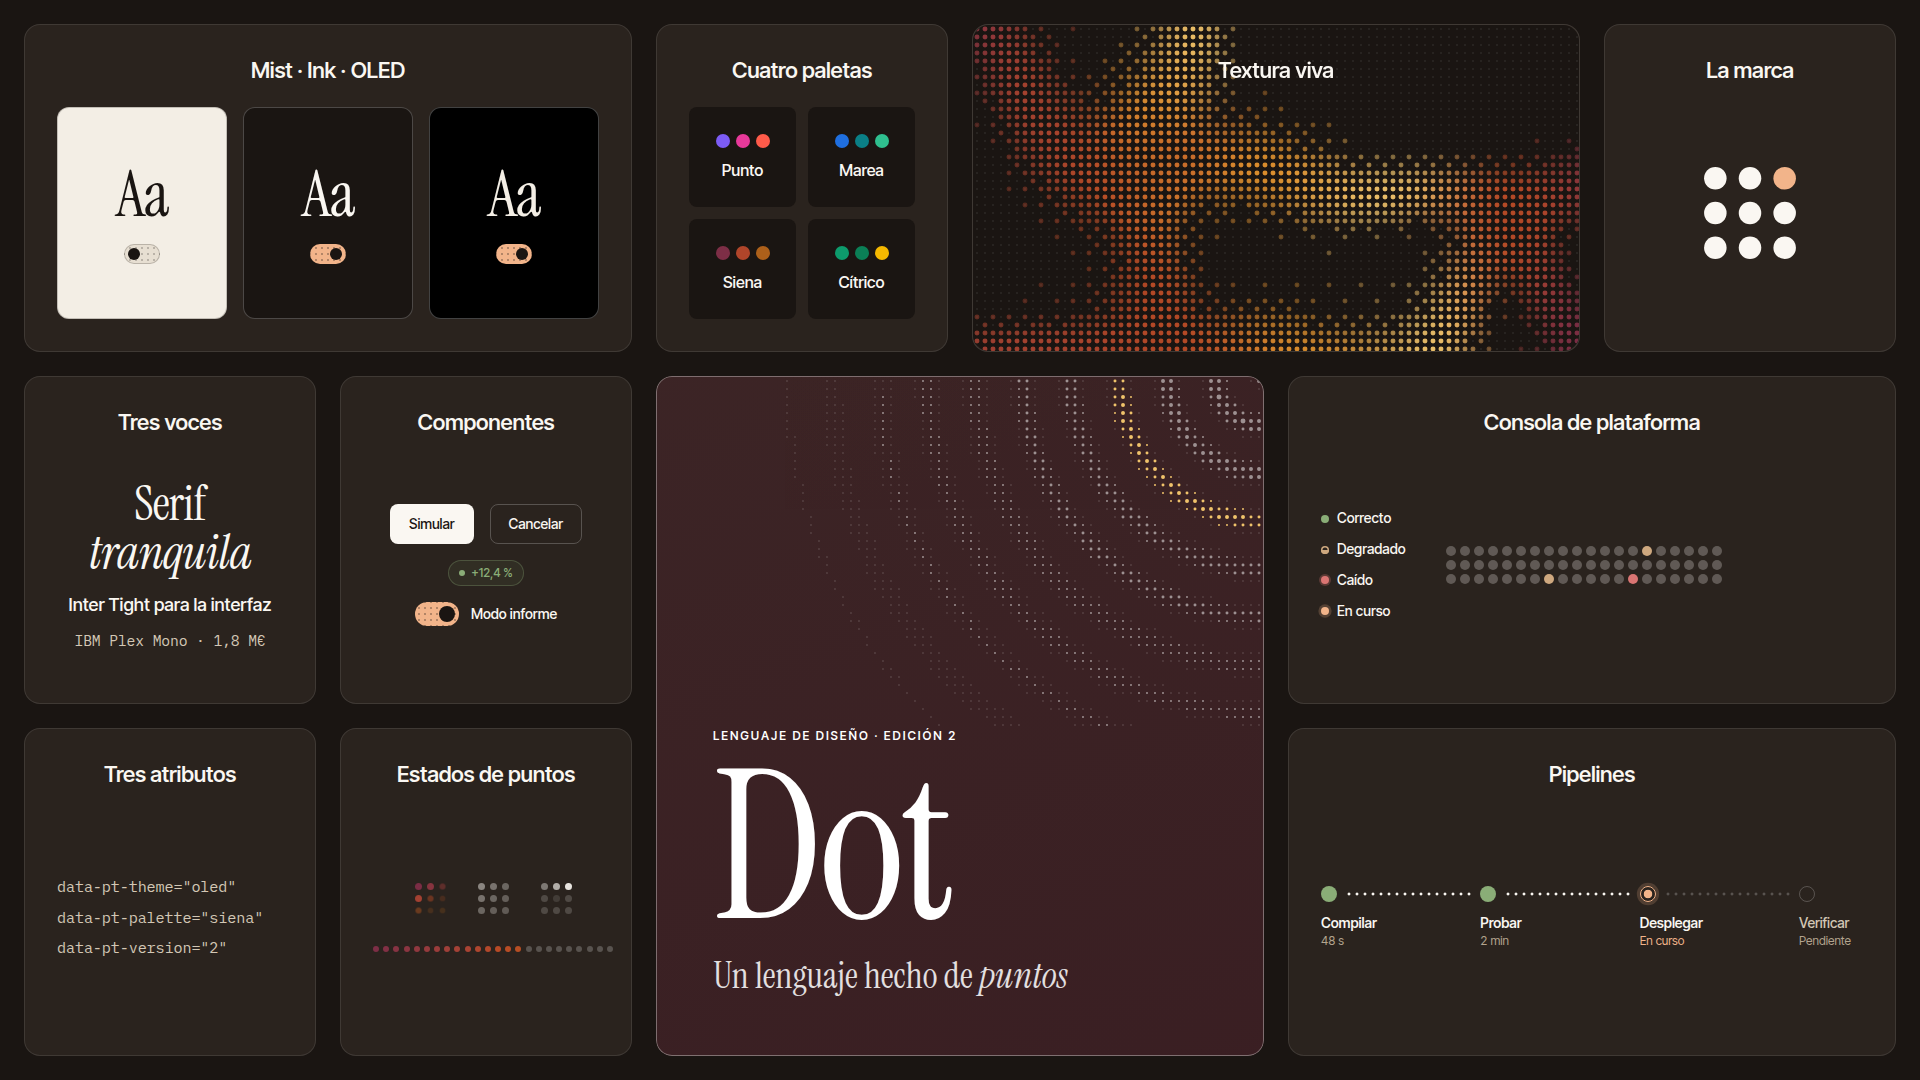
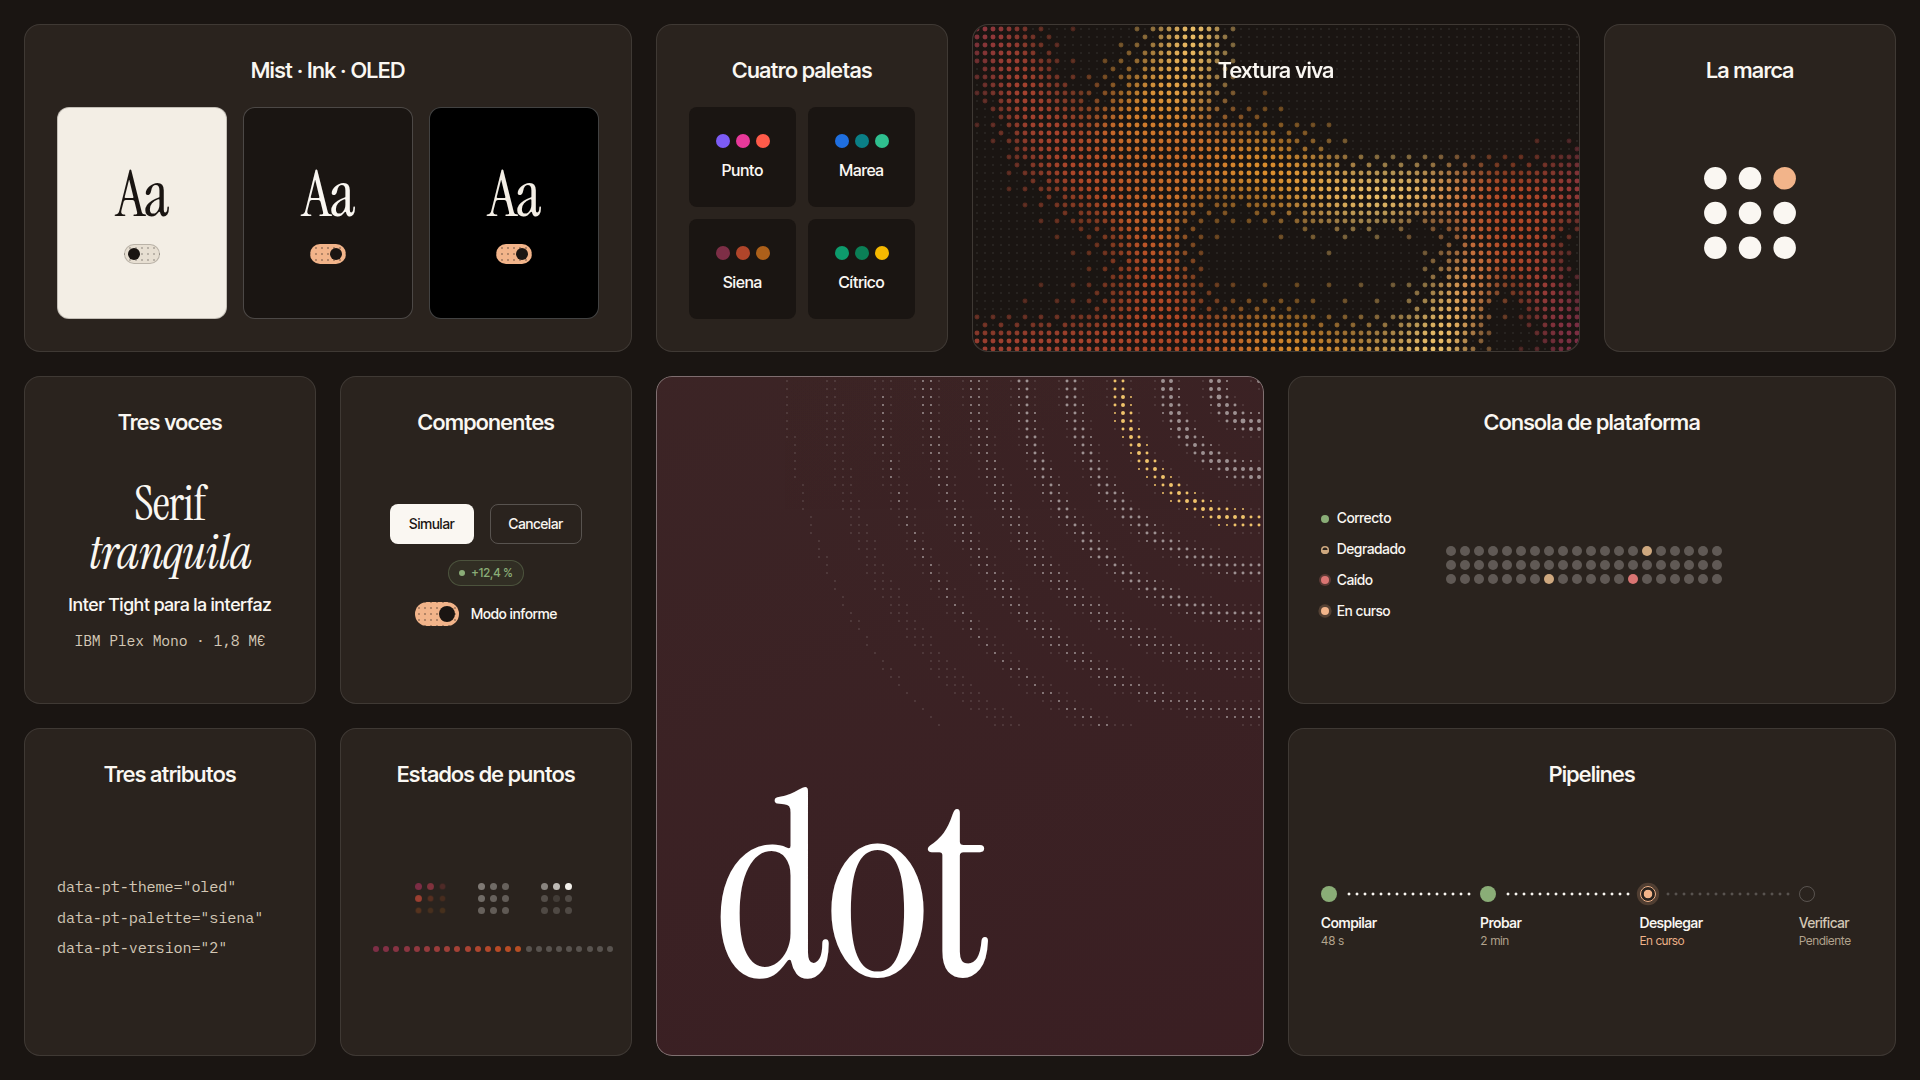
docs: mosaico sin subtítulos (solo «dot») y título del README en una palabra

Changed region(s): [[0.375, 0.6722, 0.5625, 0.9167]]

diff --git a/src/stories/Overview.stories.tsx b/src/stories/Overview.stories.tsx
@@ -141,11 +141,7 @@ function Board({ palette, night }: { palette: ReturnType<typeof heroPalette>; ni
           }
         >
           <div className="ov-hero">
-            <span className="pt-folio">Lenguaje de diseño · edición 2</span>
-            <h1 className="pt-display ov-hero__name">Dot</h1>
-            <p className="ov-hero__lead">
-              Un lenguaje hecho de <em>puntos</em>
-            </p>
+            <h1 className="pt-display ov-hero__name">dot</h1>
           </div>
         </GlassCard>
       </Tile>

diff --git a/src/stories/overview.css b/src/stories/overview.css
@@ -154,21 +154,13 @@
   box-sizing: border-box;
   display: grid;
   align-content: end;
-  gap: 16px;
   padding: 56px;
 }
 
 .ov-hero__name {
   margin: 0;
-  font-size: 13rem;
+  font-size: 16rem;
   line-height: 0.85;
-}
-
-.ov-hero__lead {
-  margin: 0;
-  font-family: var(--pt-font-display);
-  font-size: 2.25rem;
-  opacity: 0.86;
 }
 
 .ov-status {

diff --git a/README.md b/README.md
@@ -1,4 +1,4 @@
-# Dot — lenguaje de diseño
+# Dot
 
 <picture>
   <source media="(prefers-color-scheme: dark)" srcset="docs/overview-dark.png">
